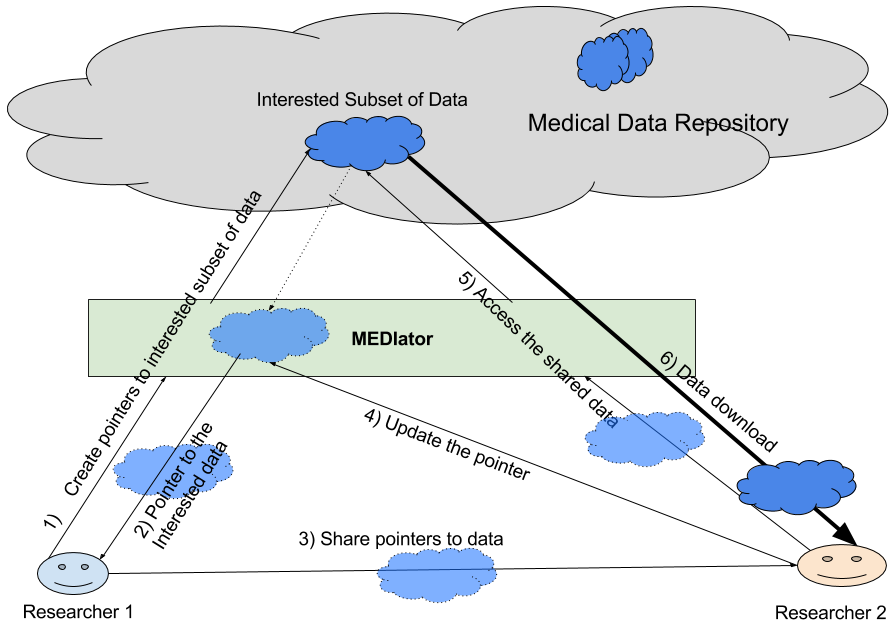
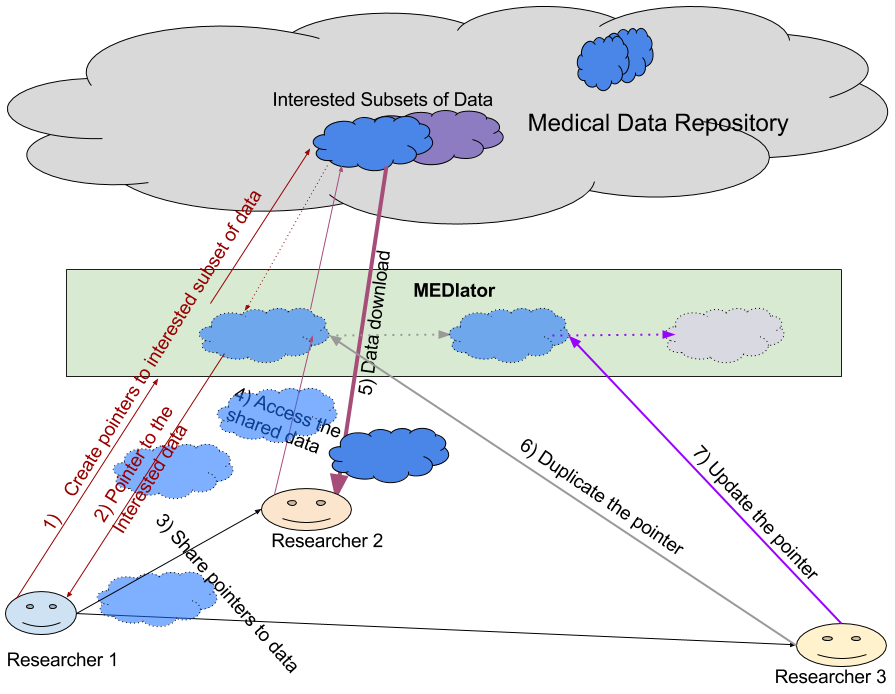
Update the REST API documentation.

diff --git a/docs/source/sections/restapi/Retrieve.rst b/docs/source/sections/restapi/Retrieve.rst
@@ -1,43 +1,10 @@
-*********************
-Retrieve Replica Sets
-*********************
+**********************************
+Retrieving the Replica Set Details
+**********************************
 
-A list of the replica sets of the given user, as well as the specifics of each of the replica sets can be retrieved
+The user may retrieve the details of the specific replica sets and also download the data pointed by the replica set as
+well. The specifics of each of the replica sets as well as a list of the replica sets of the given user can be retrieved
 through the relevant GET calls.
-
-
-For the ease of expression, port 9090 is used as an example in all the examples below.
-
-Make sure to replace 9090 above with the correct value as defined in REST_PORT in MEDIator CommonConstants.
-
-
-
-Retrieve Replica Sets of the user
-#################################
-
-This follows the format of
-
-/GET
-
-/replicasets/:id
-
-**Sample GET request**
-
-http://localhost:9090/replicasets/12
-
-
-**Sample GET response**
-
-If the user has created replica sets, the IDs of the replica sets would be returned as an array, as below.
-
-[-7466653342708752832, -7059417815353339196, -6908825180316283930, -6365519002970140943]
-
-
-If he does not have any replica sets created, the lack of replica sets would be indicated.
-
- Replicasets not found for the user: 123
-
-
 
 
 Retrieve A Replica Set
@@ -52,20 +19,59 @@ This follows the format of
 
 **Sample GET request**
 
-http://localhost:9090/replicaset/-9176938584709039161
+http://lion.bmi.emory.edu/replicaset/-9176938584709039161
 
 
 **Sample GET response**
 
 If the replica set exists, it would be returned as below.
 
-Collection Names: [TCGA-GBM]. Patient IDs: [TCGA-06-6701, TCGA-08-0831]. StudyInstanceUIDs: [1.3.6.1.4.1.14519.5.2.1.4591.4001.151679082681232740021018262895]. SeriesInstanceUIDs: [1.3.6.1.4.1.14519.5.2.1.4591.4001.179004339156422100336233996679]
+*Collection Names: [TCGA-GBM].*
+
+*Patient IDs: [TCGA-06-6701, TCGA-08-0831].*
+
+*StudyInstanceUIDs: [1.3.6.1.4.1.14519.5.2.1.4591.4001.151679082681232740021018262895].*
+
+*SeriesInstanceUIDs: [1.3.6.1.4.1.14519.5.2.1.4591.4001.179004339156422100336233996679]*
 
 
 If the replica set retrieval failed, it would cause an internal error as below.
 
-         <html>
-         <body>
-         <h2>500 Internal Error</h2>
-         </body>
-         </html>
+         *<html>*
+
+         *<body>*
+
+         *<h2>500 Internal Error</h2>*
+
+         *</body>*
+
+         *</html>*
+
+Retrieve Replica Sets of the user
+#################################
+
+This follows the format of
+
+/GET
+
+/replicasets/:id
+
+**Sample GET request**
+
+http://lion.bmi.emory.edu/replicasets/12
+
+
+**Sample GET response**
+
+If the user has created replica sets, the IDs of the replica sets would be returned as an array, as below.
+
+*[-7466653342708752832, -7059417815353339196, -6908825180316283930, -6365519002970140943]*
+
+
+If he does not have any replica sets created, the lack of replica sets would be indicated.
+
+*Replicasets not found for the user: 123*
+
+
+
+

diff --git a/docs/source/sections/restapi/Create.rst b/docs/source/sections/restapi/Create.rst
@@ -1,14 +1,10 @@
-******************
-Create Replica Set
-******************
+***********************************************
+Creating Pointers to Interested Subsets of Data
+***********************************************
 
-Users may create replica sets to point to their interested sub sets of data at different granularity. They may do so, by
+Users may create replica sets to point to their interested subsets of data at different granularity. They may do so, by
 creating a replica set from the scratch, or by duplicating an existing replica set. The created (or duplicated) replica
 sets can later be modified by the user.
-
-For the ease of expression, port 9090 is used as an example in all the examples below.
-
-Make sure to replace 9090 above with the correct value as defined in REST_PORT in MEDIator CommonConstants.
 
 
 Create Replica Set from Scratch
@@ -23,7 +19,7 @@ Replica sets can be created using a POST call following the format of,
 
 **Sample POST request**
 
-http://localhost:9090/replicasets?iUserID=12&iCollection=TCGA-GBM&iPatientID=TCGA-06-6701%2CTCGA-08-0831&iStudyInstanceUID=1.3.6.1.4.1.14519.5.2.1.4591.4001.151679082681232740021018262895&iSeriesInstanceUID=1.3.6.1.4.1.14519.5.2.1.4591.4001.179004339156422100336233996679
+http://lion.bmi.emory.edu/replicasets?iUserID=12&iCollection=TCGA-GBM&iPatientID=TCGA-06-6701%2CTCGA-08-0831&iStudyInstanceUID=1.3.6.1.4.1.14519.5.2.1.4591.4001.151679082681232740021018262895&iSeriesInstanceUID=1.3.6.1.4.1.14519.5.2.1.4591.4001.179004339156422100336233996679
 
 This creates a replica set for the user with the user ID 12, with the given attributes of the images hosted in TCIA.
 
@@ -35,7 +31,7 @@ creation POST request.
 
 This is a random generated number.
 
--4764762120292626164
+*-4764762120292626164*
 
 
 
@@ -52,7 +48,7 @@ the replica set to have it as their own. The POST call for the duplicate replica
 
 **Sample POST request**
 
-http://localhost:9090/replicaset?userID=1234567&replicaSetID=-7196077834010820228
+http://lion.bmi.emory.edu/replicaset?userID=1234567&replicaSetID=-7196077834010820228
 
 The inputs to this POST method are the ID of the current user who is duplicating the replica set, as well as the ID of
 the replica set that has been duplicated by the user.
@@ -60,7 +56,7 @@ the replica set that has been duplicated by the user.
 
 **Sample POST response**
 
--5054196249282594410
+*-5054196249282594410*
 
 Similar to the create replica set method above, the duplicate method too returns the ID of the newly created replica set.
 This is because the internals of the create and duplicate replica set methods function in a similar way, generating a

diff --git a/docs/source/sections/restapi/Update.rst b/docs/source/sections/restapi/Update.rst
@@ -1,6 +1,6 @@
-*******************
-Update Replica Sets
-*******************
+*************************
+Updating the Replica Sets
+*************************
 
 A replica set can either be replaced entirely with new contents, or be appended along with the existing content, by the
 user.
@@ -19,15 +19,11 @@ Replica sets can be replaced by a POST call of a following format.
 /replicaset/:id
 
 
-For the ease of expression, port 9090 is used as an example in all the examples below.
-
-Make sure to replace 9090 above with the correct value as defined in REST_PORT in MEDIator CommonConstants.
-
 
 
 **Sample POST request**
 
-http://localhost:9090/replicaset/-5841894688098285105?iStudyInstanceUID=1.3.6.1.4.1.14519.5.2.1.4591.4001.151679082681232740021018262895&iSeriesInstanceUID=1.3.6.1.4.1.14519.5.2.1.4591.4001.179004339156422100336233996679
+http://lion.bmi.emory.edu/replicaset/-5841894688098285105?iStudyInstanceUID=1.3.6.1.4.1.14519.5.2.1.4591.4001.151679082681232740021018262895&iSeriesInstanceUID=1.3.6.1.4.1.14519.5.2.1.4591.4001.179004339156422100336233996679
 
 
 This replaces the replica set with the given ID with the newly given information.
@@ -35,11 +31,11 @@ This replaces the replica set with the given ID with the newly given information
 
 **Sample POST response**
 
-true
+*true*
 
 or
 
-false
+*false*
 
 
 If the replica set was successfully replaced, 'true' will be returned. Otherwise, 'false' will be returned.
@@ -59,11 +55,18 @@ by a PUT call of the following format.
 
 **Sample PUT request**
 
-http://localhost:9090/replicaset/-5841894688098285105?iCollection=TCGA-GBM
+http://lion.bmi.emory.edu/replicaset/-5841894688098285105?iCollection=TCGA-GBM
 
 This appends the existing replica set of the given ID with pointers to the newly given subsets of data.
 
 
 **Sample PUT response**
+
+*true*
+
+or
+
+*false*
+
 
 If the replica set was successfully updated, 'true' will be returned. Otherwise, 'false' will be returned.

diff --git a/docs/source/index.rst b/docs/source/index.rst
@@ -21,6 +21,21 @@ may find sentences referring to MEDIator by this code name.
 
 This MEDIator deployment focuses on TCIA as its core data source.
 
+.. image:: mediator-tcia.png
+   :scale: 100
+   :align: center
+
+
+The researcher initially finds some interesting data, and decides to bookmark them. MEDIator creates a pointer to the
+data chosen by the researcher. This pointer uniquely identifies all the data that was initially of interest to the
+researcher. The researcher now shares this pointer to the data with his/her colleagues.
+
+The other researcher, using this uniquely identifiable pointer, accesses and downloads the actual data. Moreover, he/she
+may duplicate pointer, as well as modify the duplicated pointer to point to a slightly changed subset of data as well.
+
+MEDIator stores these pointers in an in-memory data grid for an efficient storage and access. These pointers are called
+'replica sets' in MEDIator.
+
 
 Getting Started With MEDIator
 #############################
@@ -28,10 +43,6 @@ Getting Started With MEDIator
 Sign up with the developer portal to get your own access key to MEDIator.
 
 Use your keys to invoke the MEDIator REST API.
-
-.. image:: mediator-tcia.png
-   :scale: 95
-   :align: center
 
 
 .. toctree::
@@ -41,6 +52,7 @@ Use your keys to invoke the MEDIator REST API.
    sections/restapi/Retrieve
    sections/restapi/Update
    sections/restapi/Delete
+   sections/restapi/Other
 
 
 

diff --git a/docs/source/sections/restapi/Delete.rst b/docs/source/sections/restapi/Delete.rst
@@ -1,6 +1,6 @@
-******************
-Delete Replica Set
-******************
+*************************
+Deleting the Replica Sets
+*************************
 
 An existing replica set can be deleted by invoking the relevant DELETE REST API, following the format of,
 
@@ -12,24 +12,19 @@ An existing replica set can be deleted by invoking the relevant DELETE REST API,
 The replica set with the given ID would be deleted.
 
 
-For the ease of expression, port 9090 is used as an example in all the examples below.
-
-Make sure to replace 9090 above with the correct value as defined in REST_PORT in MEDIator CommonConstants.
-
-
 
 **Sample DELETE request**
 
-http://localhost:9090/replicaset/12?replicaSetID=-9176938584709039161
+http://lion.bmi.emory.edu/replicaset/12?replicaSetID=-9176938584709039161
 
 
 **Sample DELETE response**
 
-true
+*true*
 
 or
 
-false
+*false*
 
 
 True, if successfully deleted the replica set with the given ID, and false if the delete failed for some reason.

diff --git a/docs/source/sections/restapi/Other.rst b/docs/source/sections/restapi/Other.rst
@@ -1,0 +1,24 @@
+*************
+Other Actions
+*************
+
+
+Retrieve the List of Users
+##########################
+
+The root GET call will return the list of MEDIator users.
+
+This follows the format of
+
+/GET
+
+/
+
+**Sample GET request**
+
+http://lion.bmi.emory.edu/
+
+
+**Sample GET response**
+
+*[12, 12435]*

diff --git a/docs/source/sections/MEDIator-REST-API.rst b/docs/source/sections/MEDIator-REST-API.rst
@@ -60,4 +60,5 @@ RESTful Invocations of MEDIator
    restapi/Retrieve
    restapi/Update
    restapi/Delete
+   restapi/Other
 
